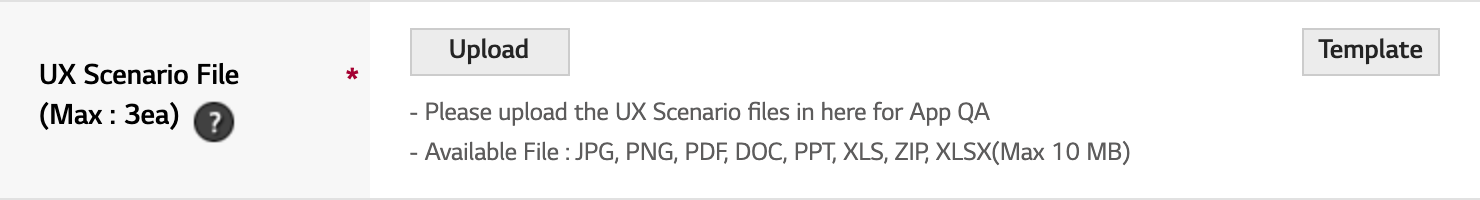
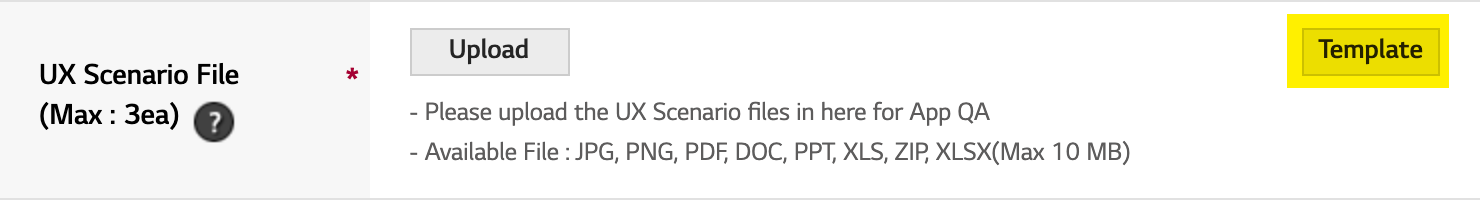
Final readthrough updates

Changed region(s): [[0.8703, 0.06, 0.9946, 0.45]]

diff --git a/_site/creating-your-apps/submitting-to-lg.html b/_site/creating-your-apps/submitting-to-lg.html
@@ -321,9 +321,9 @@ function doGTranslate(lang_pair) {if(lang_pair.value)lang_pair=lang_pair.value;i
     <p>
       Following that list is step-by-step guidance in the submission process.
       After you create your account you will proceed to supply information for
-      the submission. The LG SellerLounge, App Management section appears as
-      follows, and the areas in which you will need to enter information are
-      highlighted in yellow:
+      the submission. The <em>LG SellerLounge</em> >
+      <em>App Management</em> section appears as follows, and the areas in which
+      you will need to enter information are highlighted in yellow:
       <figure class="bcls-figure">
         <img
           class="bcls-image"
@@ -370,8 +370,11 @@ function doGTranslate(lang_pair) {if(lang_pair.value)lang_pair=lang_pair.value;i
     <ul>
       <li>Application name</li>
       <li>Application description</li>
-      <li>LG – URL to the application</li>
-      <li>webOS – IPK and Deeplink URL</li>
+      <li>IPK (supplied by Brightcove) and Deeplink URL</li>
+      <li>
+        Deeplink URL (location for the app during testing, needs to be an
+        Internet location under your control)
+      </li>
       <li>
         Images and graphical assets
         <ul>
@@ -463,8 +466,6 @@ function doGTranslate(lang_pair) {if(lang_pair.value)lang_pair=lang_pair.value;i
             >
             of this document.
           </li>
-
-          <li>app_self_evaluation_checklist_3 2.xlsx</li>
         </ul>
       </li>
     </ul>
@@ -476,10 +477,9 @@ function doGTranslate(lang_pair) {if(lang_pair.value)lang_pair=lang_pair.value;i
     <ol class="bcls-tasklist">
       <li>
         Browse to the
-        <a href="https://www.lgaccount.com/join/terms">account creation page</a>
-        to your account. The page appears as follows and you will need to
-        complete the four steps.
-        <strong>Google Play Console</strong>:
+        <a href="https://www.lgaccount.com/join/terms">account creation page</a
+        >. The page appears as follows and you will need to complete the four
+        steps.
         <figure class="bcls-figure">
           <img
             class="bcls-image"
@@ -496,7 +496,7 @@ function doGTranslate(lang_pair) {if(lang_pair.value)lang_pair=lang_pair.value;i
         >. You will need to create another account here.
       </li>
       <li>
-        After completing the second account sign up you will be able to go to
+        After completing the second account sign up, you will be able to go to
         the
         <a href="http://seller.lgappstv.com/seller/main/Main.lge"
           >SellerLounge</a
@@ -504,7 +504,8 @@ function doGTranslate(lang_pair) {if(lang_pair.value)lang_pair=lang_pair.value;i
         and sign in.
       </li>
       <li>
-        Click on the <strong>APP MANAGEMENT</strong> tab.
+        Once in the <em>SellerLounge</em>, click on the
+        <strong>APP MANAGEMENT</strong> tab.
         <figure class="bcls-figure">
           <img
             class="bcls-image"
@@ -537,11 +538,16 @@ function doGTranslate(lang_pair) {if(lang_pair.value)lang_pair=lang_pair.value;i
       </li>
       <li>
         In the left navigation, click the
-        <strong
-          >LG Seller Lounge Guide Download button. This downloads an excellent
-          guide to filling in the app submission forms. This document will be
-          referenced later in this document.</strong
-        >
+        <strong>LG Seller Lounge Guide Download</strong> button. This downloads
+        an excellent guide to filling in the app submission forms. The PDF
+        downloaded will be referenced later in this document.
+        <figure class="bcls-figure">
+          <img
+            class="bcls-image"
+            src="/assets/images/creating-your-apps/lg/sellerlounge-guide-download.png"
+            alt="seller lounge guide download"
+          />
+        </figure>
       </li>
     </ol>
   </section>
@@ -580,7 +586,7 @@ function doGTranslate(lang_pair) {if(lang_pair.value)lang_pair=lang_pair.value;i
         </figure>
       </li>
       <li>
-        Fill in the rest of the form. Details for each field are in the table.
+        Fill in the form. Details for each field follow:
         <table class="bcls-table">
           <thead class="bcls-table__head">
             <tr>
@@ -612,11 +618,18 @@ function doGTranslate(lang_pair) {if(lang_pair.value)lang_pair=lang_pair.value;i
             </tr>
             <tr>
               <td>Deep Link URL</td>
-              <td></td>
+              <td>
+                First, be sure <strong>Default</strong> is selected in the
+                dropdown; next, provide a URL where the app can be hosted for
+                testing
+              </td>
             </tr>
             <tr>
               <td>File Title</td>
-              <td>The name of the file you will listed in the SellerLounge</td>
+              <td>
+                The name of the file; you will see this listed in the
+                SellerLounge
+              </td>
             </tr>
             <tr>
               <td>File Version</td>
@@ -636,8 +649,8 @@ function doGTranslate(lang_pair) {if(lang_pair.value)lang_pair=lang_pair.value;i
     </h2>
     <p>
       Upload the images detailed in the
-      <a href="#required_images">Required assets</a> section of this doc. The
-      images names in that section match the names in the form.
+      <a href="#required_images">Required assets</a> section of this document.
+      The image names in that section match the names in the form.
     </p>
     <p>
       Don't forget to click the <strong>Save</strong> button when done uploading
@@ -686,7 +699,8 @@ function doGTranslate(lang_pair) {if(lang_pair.value)lang_pair=lang_pair.value;i
             </figure>
           </li>
           <li>
-            Here is the info screen from the SellerLounge:
+            For more information about this requirement, here is the info screen
+            from the SellerLounge:
             <figure class="bcls-figure">
               <img
                 class="bcls-image"
@@ -696,7 +710,7 @@ function doGTranslate(lang_pair) {if(lang_pair.value)lang_pair=lang_pair.value;i
             </figure>
           </li>
           <li>
-            Here are example of some test items.
+            Simply for your information, here are examples of some test items.
             <figure class="bcls-figure">
               <img
                 class="bcls-image"
@@ -722,7 +736,8 @@ function doGTranslate(lang_pair) {if(lang_pair.value)lang_pair=lang_pair.value;i
             </figure>
           </li>
           <li>
-            Here is the info screen from the SellerLounge:
+            For more information about this requirement, here is the info screen
+            from the SellerLounge:
             <figure class="bcls-figure">
               <img
                 class="bcls-image"

diff --git a/creating-your-apps/submitting-to-lg.html b/creating-your-apps/submitting-to-lg.html
@@ -18,9 +18,9 @@ parent: Creating Your Apps
     <p>
       Following that list is step-by-step guidance in the submission process.
       After you create your account you will proceed to supply information for
-      the submission. The LG SellerLounge, App Management section appears as
-      follows, and the areas in which you will need to enter information are
-      highlighted in yellow:
+      the submission. The <em>LG SellerLounge</em> >
+      <em>App Management</em> section appears as follows, and the areas in which
+      you will need to enter information are highlighted in yellow:
       <figure class="bcls-figure">
         <img
           class="bcls-image"
@@ -67,8 +67,11 @@ parent: Creating Your Apps
     <ul>
       <li>Application name</li>
       <li>Application description</li>
-      <li>LG – URL to the application</li>
-      <li>webOS – IPK and Deeplink URL</li>
+      <li>IPK (supplied by Brightcove) and Deeplink URL</li>
+      <li>
+        Deeplink URL (location for the app during testing, needs to be an
+        Internet location under your control)
+      </li>
       <li>
         Images and graphical assets
         <ul>
@@ -160,8 +163,6 @@ parent: Creating Your Apps
             >
             of this document.
           </li>
-
-          <li>app_self_evaluation_checklist_3 2.xlsx</li>
         </ul>
       </li>
     </ul>
@@ -173,10 +174,9 @@ parent: Creating Your Apps
     <ol class="bcls-tasklist">
       <li>
         Browse to the
-        <a href="https://www.lgaccount.com/join/terms">account creation page</a>
-        to your account. The page appears as follows and you will need to
-        complete the four steps.
-        <strong>Google Play Console</strong>:
+        <a href="https://www.lgaccount.com/join/terms">account creation page</a
+        >. The page appears as follows and you will need to complete the four
+        steps.
         <figure class="bcls-figure">
           <img
             class="bcls-image"
@@ -193,7 +193,7 @@ parent: Creating Your Apps
         >. You will need to create another account here.
       </li>
       <li>
-        After completing the second account sign up you will be able to go to
+        After completing the second account sign up, you will be able to go to
         the
         <a href="http://seller.lgappstv.com/seller/main/Main.lge"
           >SellerLounge</a
@@ -201,7 +201,8 @@ parent: Creating Your Apps
         and sign in.
       </li>
       <li>
-        Click on the <strong>APP MANAGEMENT</strong> tab.
+        Once in the <em>SellerLounge</em>, click on the
+        <strong>APP MANAGEMENT</strong> tab.
         <figure class="bcls-figure">
           <img
             class="bcls-image"
@@ -234,11 +235,16 @@ parent: Creating Your Apps
       </li>
       <li>
         In the left navigation, click the
-        <strong
-          >LG Seller Lounge Guide Download button. This downloads an excellent
-          guide to filling in the app submission forms. This document will be
-          referenced later in this document.</strong
-        >
+        <strong>LG Seller Lounge Guide Download</strong> button. This downloads
+        an excellent guide to filling in the app submission forms. The PDF
+        downloaded will be referenced later in this document.
+        <figure class="bcls-figure">
+          <img
+            class="bcls-image"
+            src="/assets/images/creating-your-apps/lg/sellerlounge-guide-download.png"
+            alt="seller lounge guide download"
+          />
+        </figure>
       </li>
     </ol>
   </section>
@@ -277,7 +283,7 @@ parent: Creating Your Apps
         </figure>
       </li>
       <li>
-        Fill in the rest of the form. Details for each field are in the table.
+        Fill in the form. Details for each field follow:
         <table class="bcls-table">
           <thead class="bcls-table__head">
             <tr>
@@ -309,11 +315,18 @@ parent: Creating Your Apps
             </tr>
             <tr>
               <td>Deep Link URL</td>
-              <td></td>
+              <td>
+                First, be sure <strong>Default</strong> is selected in the
+                dropdown; next, provide a URL where the app can be hosted for
+                testing
+              </td>
             </tr>
             <tr>
               <td>File Title</td>
-              <td>The name of the file you will listed in the SellerLounge</td>
+              <td>
+                The name of the file; you will see this listed in the
+                SellerLounge
+              </td>
             </tr>
             <tr>
               <td>File Version</td>
@@ -333,8 +346,8 @@ parent: Creating Your Apps
     </h2>
     <p>
       Upload the images detailed in the
-      <a href="#required_images">Required assets</a> section of this doc. The
-      images names in that section match the names in the form.
+      <a href="#required_images">Required assets</a> section of this document.
+      The image names in that section match the names in the form.
     </p>
     <p>
       Don't forget to click the <strong>Save</strong> button when done uploading
@@ -383,7 +396,8 @@ parent: Creating Your Apps
             </figure>
           </li>
           <li>
-            Here is the info screen from the SellerLounge:
+            For more information about this requirement, here is the info screen
+            from the SellerLounge:
             <figure class="bcls-figure">
               <img
                 class="bcls-image"
@@ -393,7 +407,7 @@ parent: Creating Your Apps
             </figure>
           </li>
           <li>
-            Here are example of some test items.
+            Simply for your information, here are examples of some test items.
             <figure class="bcls-figure">
               <img
                 class="bcls-image"
@@ -419,7 +433,8 @@ parent: Creating Your Apps
             </figure>
           </li>
           <li>
-            Here is the info screen from the SellerLounge:
+            For more information about this requirement, here is the info screen
+            from the SellerLounge:
             <figure class="bcls-figure">
               <img
                 class="bcls-image"
